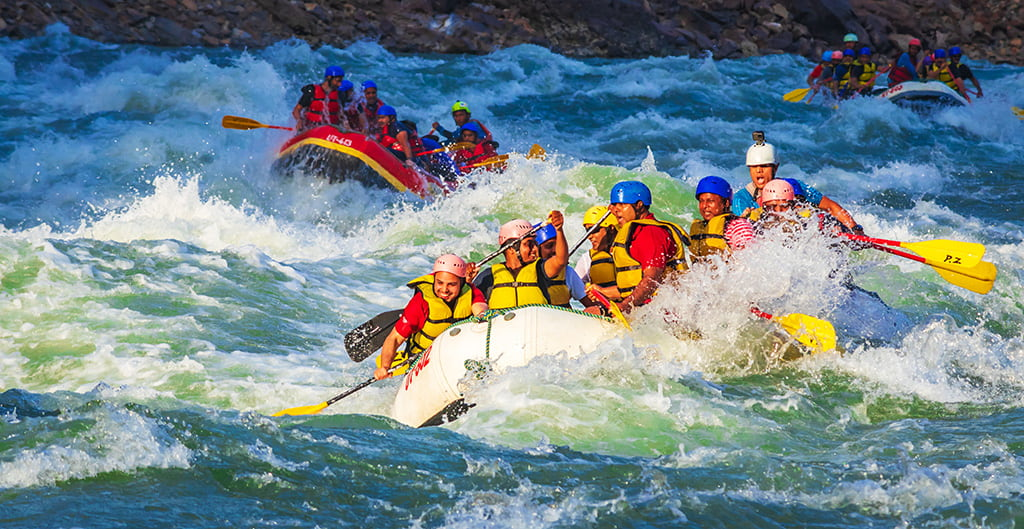
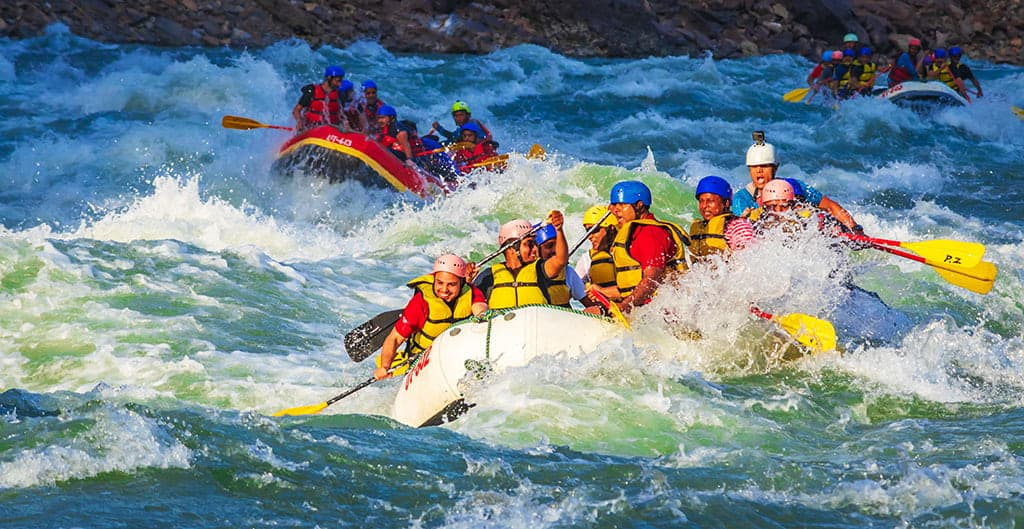
some small chandes may y min

diff --git a/wwr/about.html b/wwr/about.html
@@ -5,6 +5,8 @@
     <meta charset="UTF-8">
     <meta name="viewport" content="width=device-width, initial-scale=1.0">
     <title>Have an Rafting Adventure</title>
+    <meta name="description"
+      content="Rafting Exciting Expeditions is a new web page that I am creating for this course">
     <meta name="author" content="Emily Prentell">
     <link rel="stylesheet" href="styles/rafting.css">
 </head>
@@ -15,16 +17,16 @@
         <nav>
             <ul>
                 <li><a href="index.html">Home</a> </li>
-                <li><a href="about.html">About us</a></li>
+                <li><a href="about.html">About Us</a></li>
                 <li><a href="trips.html">Trips</a></li>
-                <li><a href="contact.html">Contact us</a></li>
+                <li><a href="contact.html">Contact Us</a></li>
             </ul>
         </nav>
     </header>
     <main>
         <div class="hero">
             <img src="images/rafting-adventure.jpg" alt="The best Adventure ever">
-            <h1>Exciting Expeditions</h1>
+            <h1>About Us - Exciting Expeditions</h1>
             <article>
                 <img src="images/people-meet-us.jpg" alt="Rafting with friends and family">
                 <p>The goal of the project is to meet the course outcomes and objectives through
@@ -47,16 +49,19 @@
     </main>
     <footer>
         <p>© 2026 The Whitewater Rafting</p>
-        <nav class="Socialmedia">
+        <nav class="socialmedia">
             <a href="https://facebook.com">
                 <img src="images/facebook.png" alt="Facebook Icon">
             </a>
             <a href="https://linkedin.com">
                 <img src="images/linkedin.jpg" alt="LinkedIn Icon">
             </a>
-            <a href="https://instragram.com">
+            <a href="https://instagram.com">
                 <img src="images/instagram.jfif" alt="Instagram Icon">
             </a>
         </nav>
 
     </footer>
+</body>
+
+</html>
